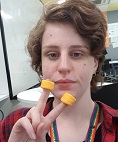
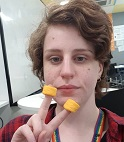
Updated Eleanor Alt and 1 other file

diff --git a/committee/index.html b/committee/index.html
@@ -103,7 +103,7 @@
 
 				<li onclick="bio(2)">
 
-					<img alt="" src="/assets/images/people/eleanor-alt.jpg" height="142" width="118">
+					<img alt="" src="/assets/images/people/eleanor-alt.jpg" align="middle">
 
 					<img alt="" src="/assets/images/people/eleanor.jpg">
 
